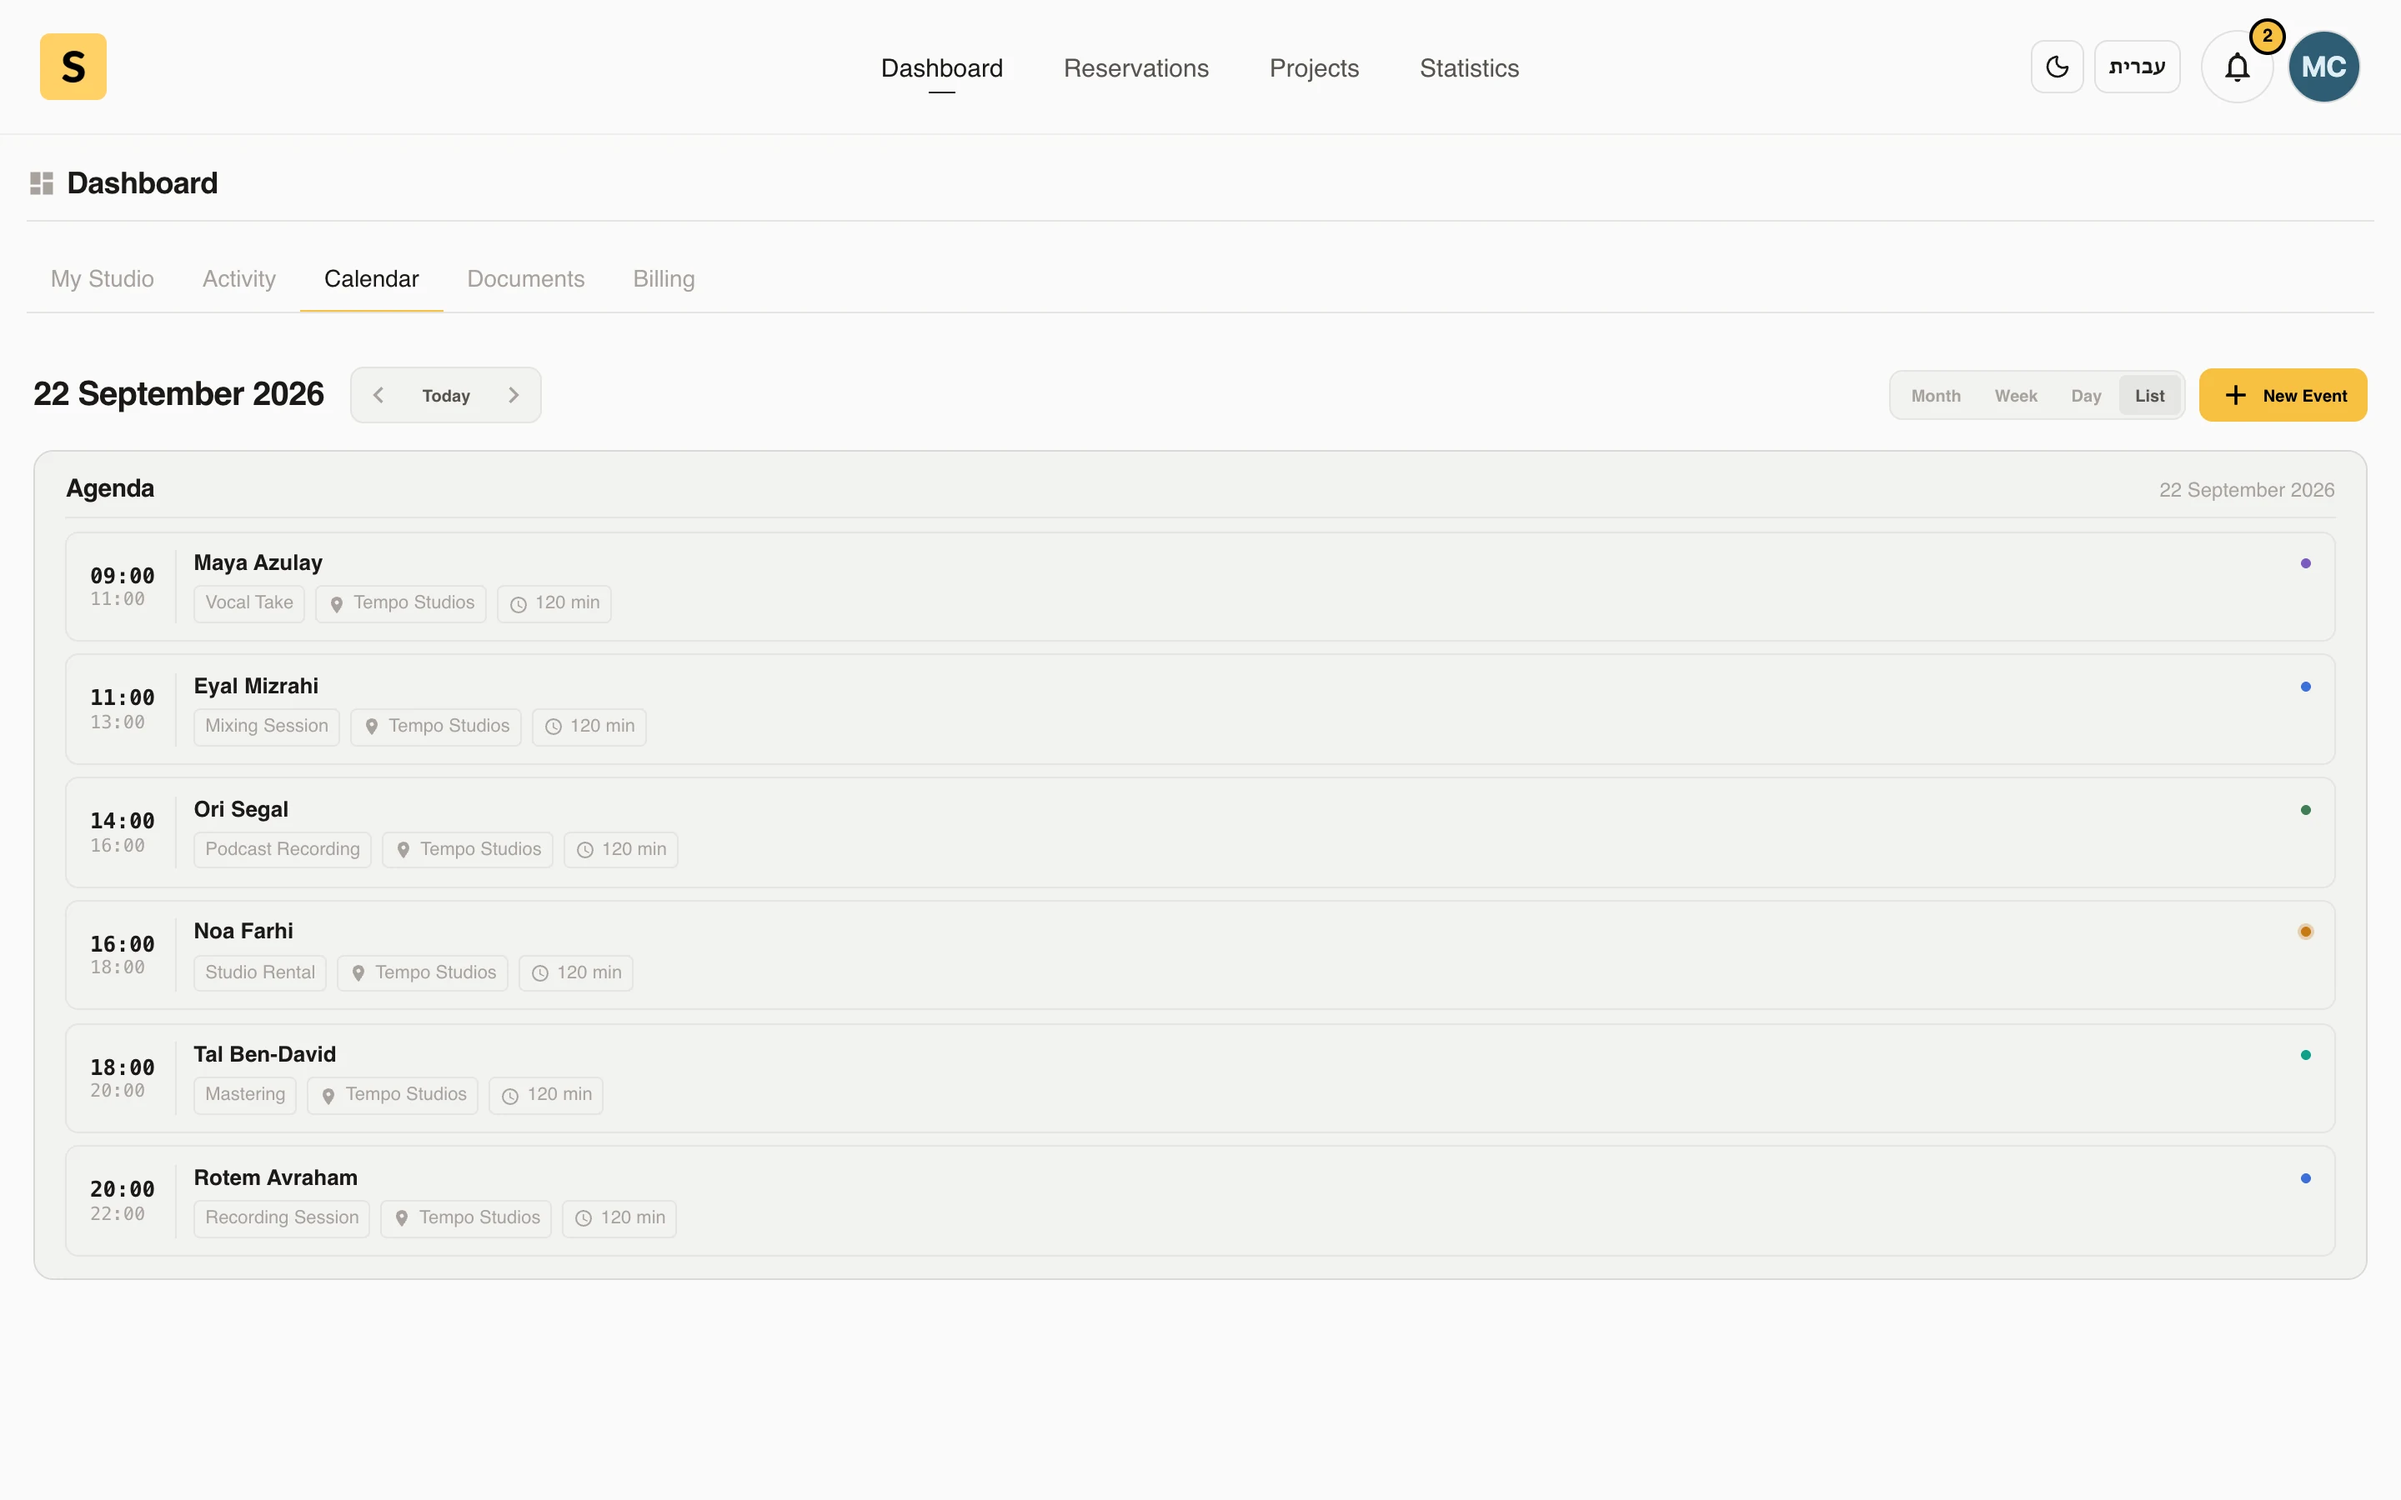
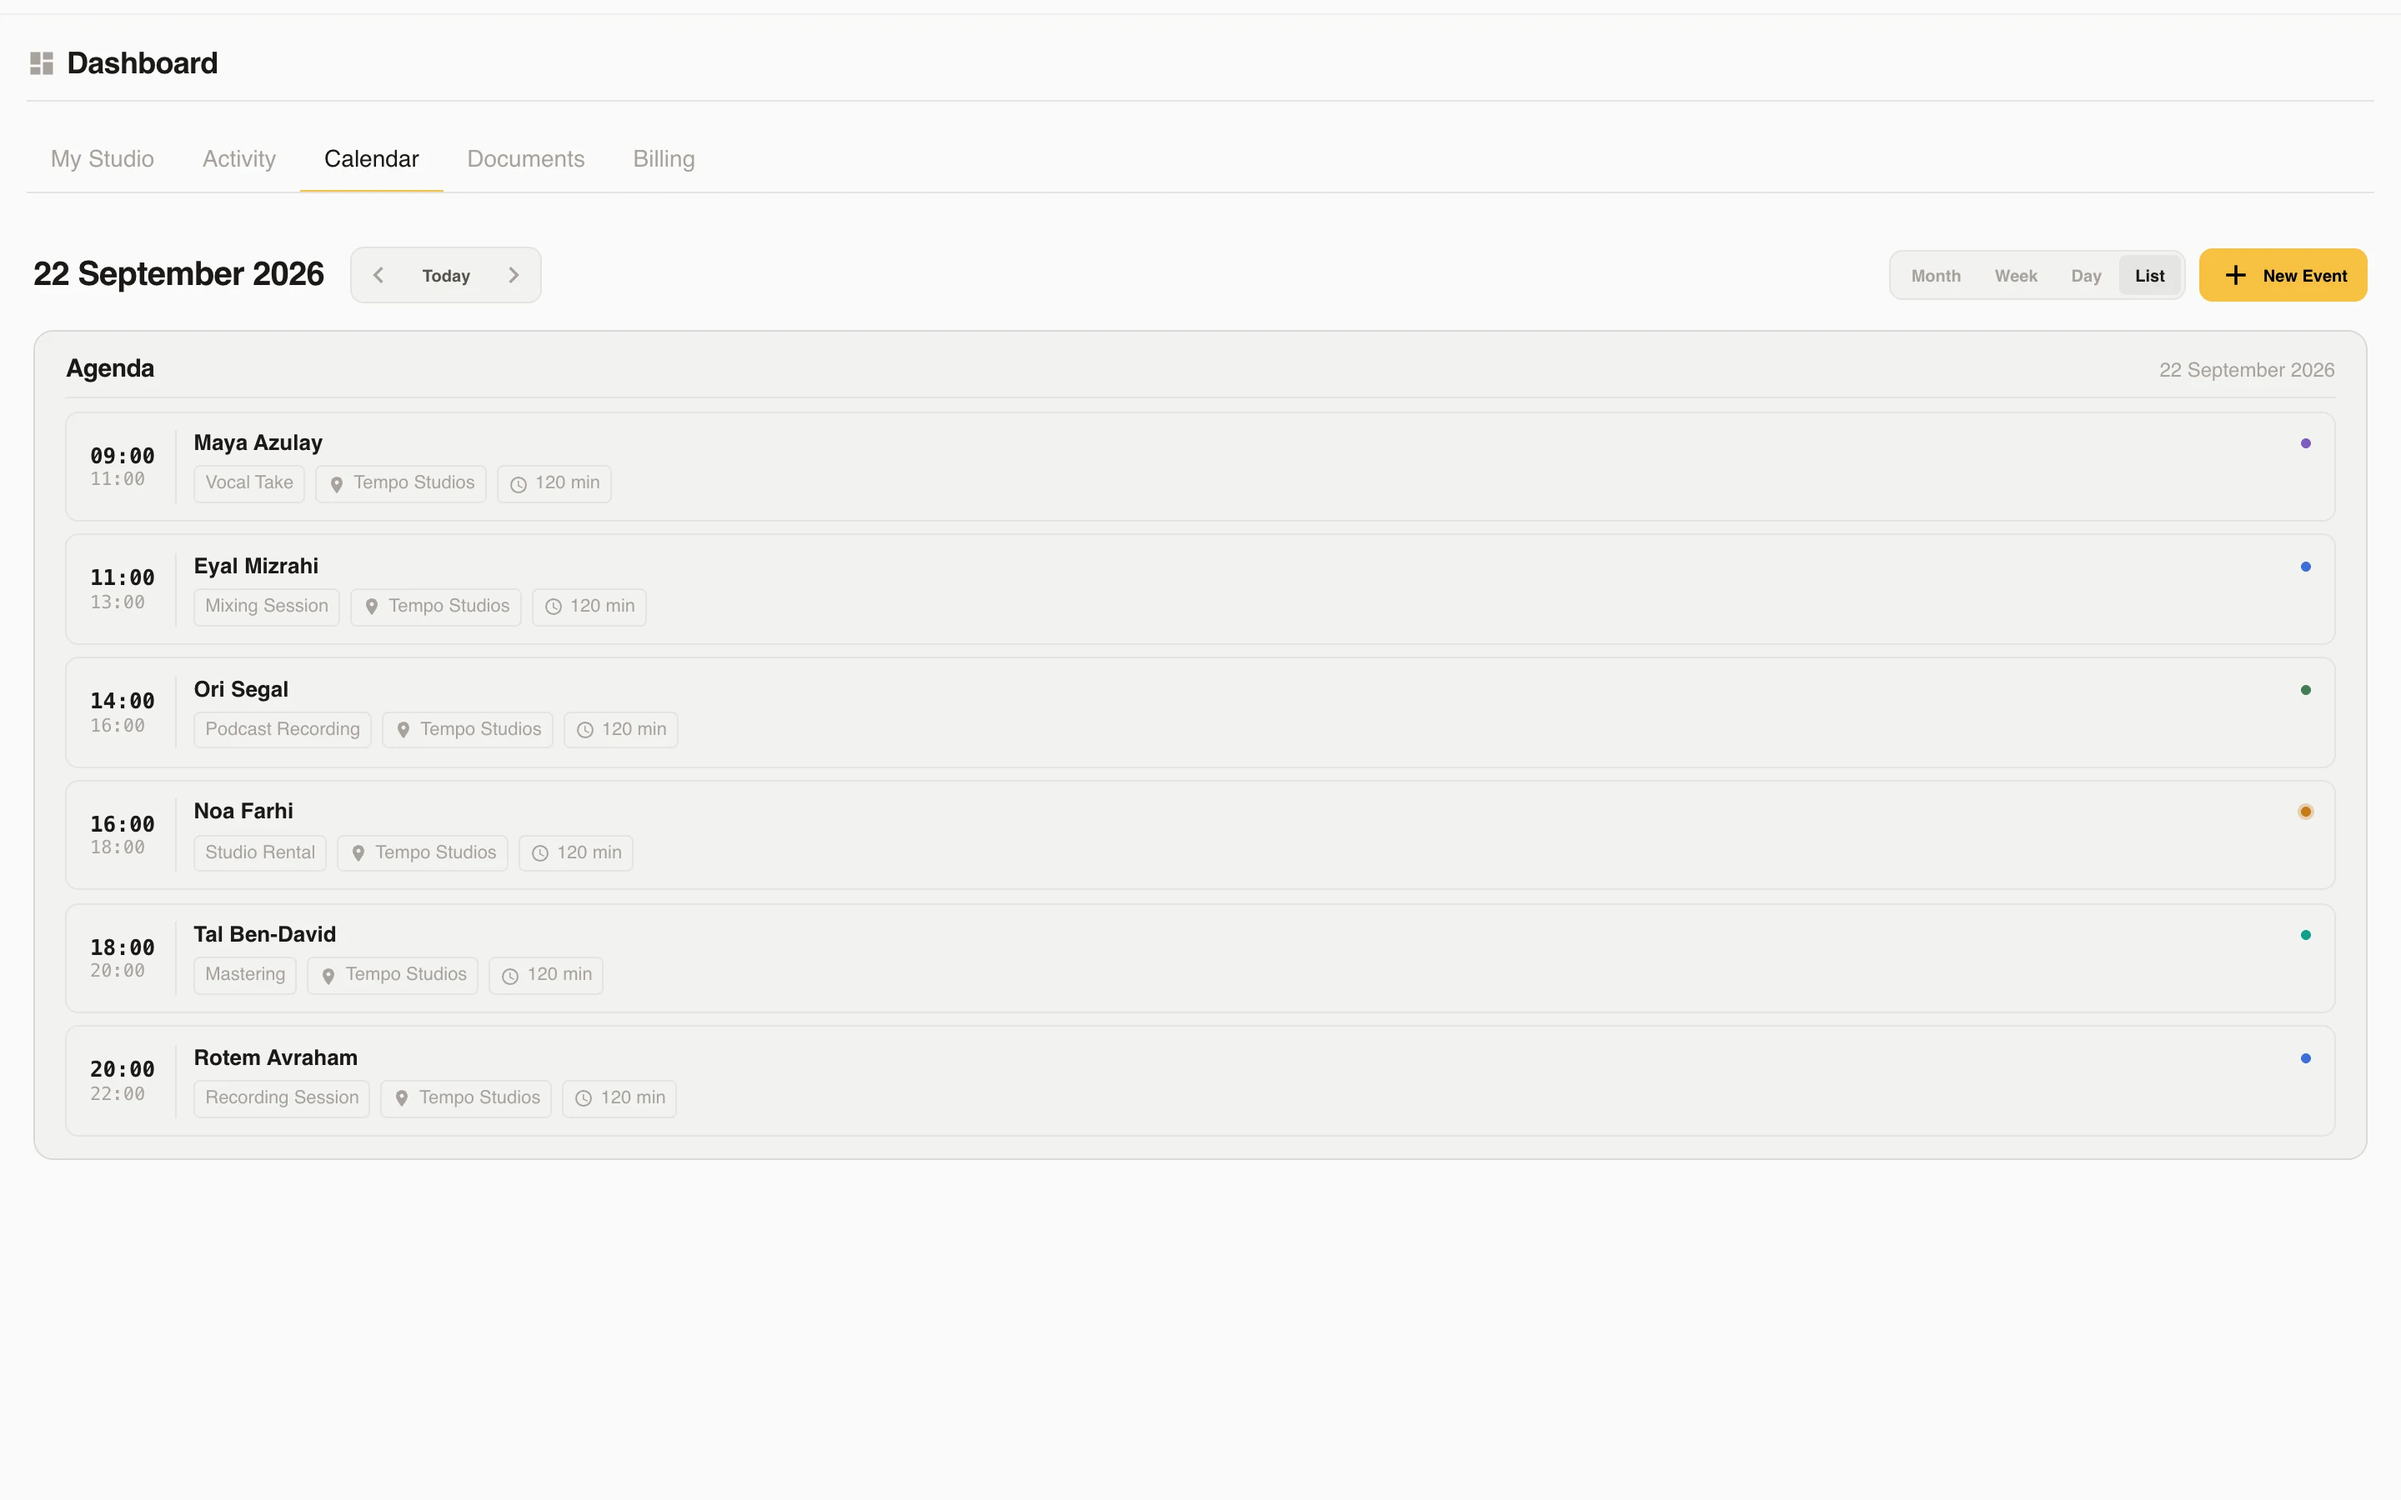
Match calendar list capture scroll to month view framing.

diff --git a/tools/app-store-screenshots/screenshots.config.ts b/tools/app-store-screenshots/screenshots.config.ts
@@ -128,8 +128,8 @@ const scenes: ScreenshotScene[] = [
           .studioz-calendar__list-event { padding: 0.65rem 0.85rem !important; }
         `
       },
-      // Top of page so dashboard + calendar chrome stay in frame (month view uses y:72).
-      { type: 'scroll', x: 0, y: 0 }
+      // Match month calendar framing.
+      { type: 'scroll', y: 72 }
     ],
     deviceTransform: { scale: 0.72, y: 100, shadow: true },
     capturePublish: {
